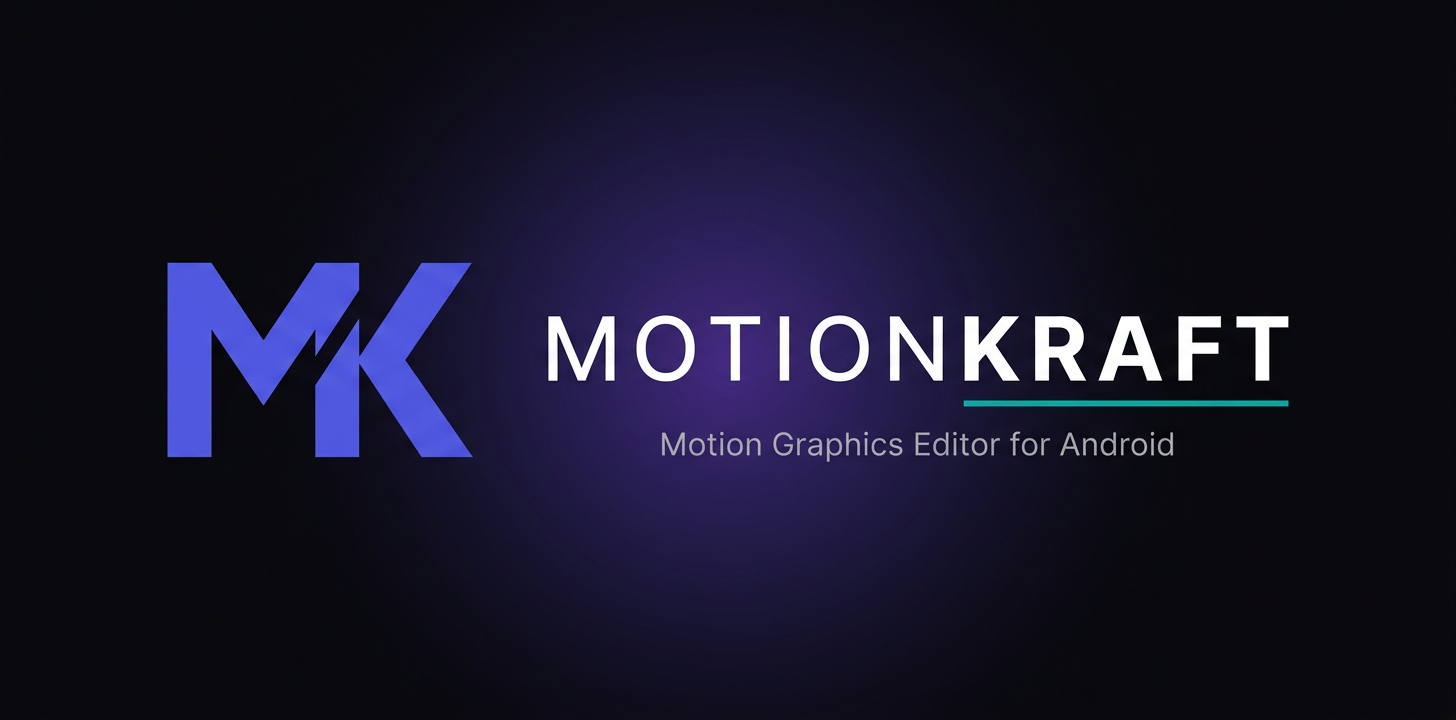
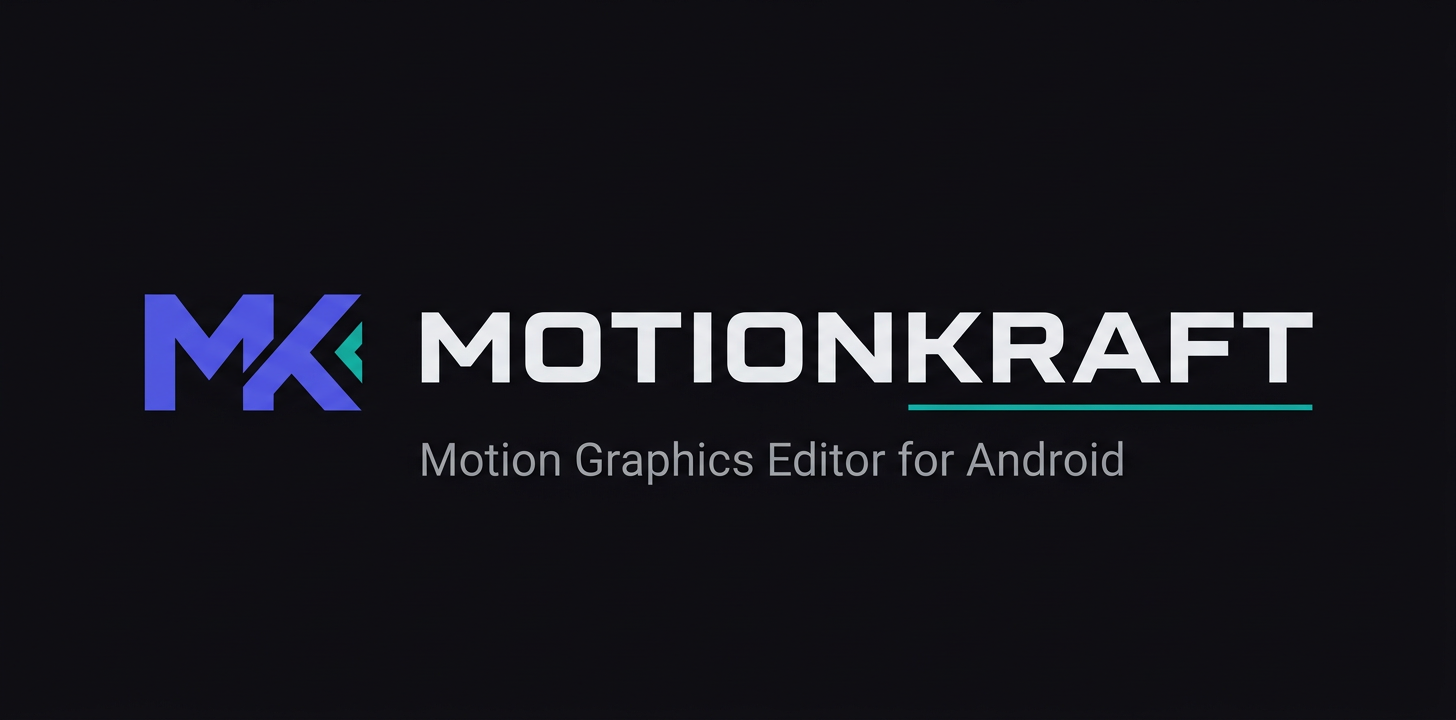
Polish README, clean branding

Changed region(s): [[0.0927, 0.0917, 0.9272, 0.9167]]

diff --git a/README.md b/README.md
@@ -1,69 +1,67 @@
-![MotionKraft](branding/banner.png)
+<img src="branding/banner.png" width="100%" alt="MotionKraft">
 
 # MotionKraft
 
-Motion graphics and video editor for Android. Built for short-form creators who need keyframe-based editing, beat-synced effects, and compositing control beyond what most mobile editors expose.
+Motion graphics and video editor for Android. Targets short-form creators who need keyframe-based compositing, beat-synced effects, and export control that goes beyond the standard one-tap editors.
 
-This repository contains the Android application source, signing configuration (keystore is never committed), and the release pipeline that produces signed APK and AAB artifacts via GitHub Actions.
+This repository contains the application source, signing configuration (keystore held in GitHub Secrets, never committed), and the release pipeline that produces signed APK and AAB artifacts via GitHub Actions.
+
+Repository: [https://github.com/xykal/MotionKraft](https://github.com/xykal/MotionKraft)
 
 ---
 
 ## Status
 
-This project is in active development. The current build ships a working foundation: multi-track timeline, keyframe animation across six transform channels, beat-aware jedag-jedug presets, color grading, text layers, speed ramps, and export via FFmpeg to H.264/AAC at resolutions up to 4K.
+Active development. Current build provides a working foundation: multi-track timeline, six-channel keyframe animation, beat-aware jedag-jedug presets, color grading, text layers, speed ramps, and FFmpeg export up to 4K H.264/AAC.
 
-Minimum Android version: 7.0 (API 24)
+Minimum Android: 7.0 (API 24)
 Target SDK: 34
 Architectures: arm64-v8a, armeabi-v7a
 
 ---
 
-## Feature Set
+## Features
 
-### Timeline and Compositing
-- Multi-track timeline with video, image, and text clips
-- Pinch-zoom timeline ruler
-- Playhead scrubbing and playback
-- Per-clip trim, split, and speed control (0.1x to 4x)
+### Timeline
+- Multi-track tracks for video, image, and text clips
+- Pinch-zoomable timeline ruler
+- Per-clip trim and speed (0.1x to 4x)
 - Layer ordering by track index
-- Export frame accuracy via FFmpeg filter graph
+- FFmpeg filter graph for frame-accurate export
 
 ### Animation
 - Keyframe channels: position X/Y, scale X/Y, rotation, opacity
 - Interpolation modes: linear, ease-in, ease-out, ease-in-out, hold, bounce, elastic
-- Keyframe values evaluated at render time; presets always produce editable keyframes rather than burnt-in pixels
+- All beat presets produce editable keyframes rather than burnt-in pixels
 
-### Beat Effects (one-tap presets)
-The presets write keyframes and filter instances so you can retime or fine-tune them after applying.
-
+### Beat-Synced Effects (one tap)
 - Zoom Punch
 - Heavy Shake
 - Strobe Flash
 - RGB Glitch
 - Whip Pan transition
 - Spin 360
-- Pulse (BPM-synced scale)
-- Earthquake (shake + punch composite)
+- Pulse (BPM-locked scale)
+- Earthquake (shake plus punch composite)
 - Zoom Blur
 
 ### Color and Visual Adjustment
 - Brightness, contrast, saturation sliders
-- Vintage, black-and-white, and teal-orange cinematic LUT filters
+- Vintage, black-and-white, teal-orange cinematic filters
 - Gaussian blur and outer glow
-- Hue rotation (in development)
 
 ### Text
 - Solid-fill text layers with outline stroke
 - Adjustable size and color
-- Font loading and per-text animation are scheduled for the next milestone
+- Custom font loading scheduled for next milestone
 
 ### Export
-- Resolution: 720p / 1080p / 1440p / 2160p
-- Frame rate: 24 / 30 / 60 fps
-- Bitrate range: 4 to 50 Mbps
+- Resolutions: 720p, 1080p, 1440p, 2160p
+- Frame rates: 24 / 30 / 60 fps
+- Bitrate: 4 to 50 Mbps
 - Codec: H.264 video, AAC audio
-- Output written to the device Movies directory and registered with MediaStore
-- Foreground service with progress notification
+- Output written to the device `Movies/MotionKraft` directory and registered with MediaStore
+- Foreground export service with progress notification
 
 ---
 
@@ -71,20 +69,19 @@ The presets write keyframes and filter instances so you can retime or fine-tune 
 
 ```
 app/
-├── src/main/
-│   ├── java/xyz/xyverse/motionkraft/
-│   │   ├── data/model/         # Timeline, Clip, Keyframe, Effect, Transform
-│   │   ├── editor/             # FFmpeg command builder, export service
-│   │   ├── effects/            # Jedag-jedug preset keyframe generators
-│   │   ├── presentation/       # ViewModel and Jetpack Compose UI
-│   │   └── ui/theme/           # Material 3 dark theme
-│   └── res/                    # Drawables, values, manifest, adaptive icon
-├── build.gradle.kts
-└── proguard-rules.pro
+  src/main/
+    java/xyz/xyverse/motionkraft/
+      data/model/         Timeline, Clip, Keyframe, Effect, Transform
+      editor/             FFmpeg command builder, export service
+      effects/            Jedag-jedug preset keyframe generators
+      presentation/       ViewModel and Jetpack Compose UI
+      ui/theme/           Material 3 dark theme
+    res/                  Drawables, values, manifest, adaptive icon
+  build.gradle.kts
+  proguard-rules.pro
 
-.github/workflows/              # CI/CD build pipeline
-branding/                       # Icon source and README banner
-keystore/                       # GITIGNORED — release keystore lives in GitHub Secrets
+.github/workflows/        CI/CD build pipeline
+branding/                 Icon source and README banner
 ```
 
 ---
@@ -94,7 +91,7 @@ keystore/                       # GITIGNORED — release keystore lives in GitHu
 ### Prerequisites
 - Android Studio Hedgehog or newer
 - JDK 17
-- Android SDK with platform 34 and NDK (for ffmpeg-kit native libs)
+- Android SDK with platform 34 and NDK (for ffmpeg-kit native libraries)
 
 ### Debug Build
 ```
@@ -103,7 +100,7 @@ keystore/                       # GITIGNORED — release keystore lives in GitHu
 Output: `app/build/outputs/apk/debug/app-debug.apk`
 
 ### Release Build (Local)
-1. Place the release keystore at `keystore/motionkraft-release.jks`
+1. Place the release keystore at `keystore/motionkraft-release.jks` (this path is gitignored).
 2. Provide signing credentials via environment variables or `~/.gradle/gradle.properties`:
    ```
    SIGNING_STORE_PASSWORD=...
@@ -114,83 +111,88 @@ Output: `app/build/outputs/apk/debug/app-debug.apk`
    ```
    ./gradlew assembleRelease bundleRelease
    ```
-
-App bundles are generated at `app/build/outputs/bundle/release/`.
+   App bundles are produced in `app/build/outputs/bundle/release/`.
 
 ---
 
 ## Continuous Integration and Release Pipeline
 
-The GitHub Actions workflow at `.github/workflows/android-build.yml` runs on push, tag, pull request, and manual dispatch.
+GitHub Actions workflow at `.github/workflows/android-build.yml` runs on push, tag, pull request, and manual dispatch.
 
-Two jobs exist:
+Two jobs:
 
-1. **build-debug** — always runs, has no access to secrets, produces an unsigned debug APK. This is the job that runs on pull requests from forks.
-2. **build-release** — requires the `production` GitHub Environment. The environment is configured with:
-   - Required reviewer: only the repository owner (`xykal`)
-   - Deployment branch restriction: `main` and tags matching `v*`
-   - Secrets scoped exclusively to this environment
+1. **build-debug** runs on every push and pull request. It has no access to signing material and produces an unsigned debug APK.
+2. **build-release** runs only on version tags (`v*`) or when manually dispatched with `buildType=release`. It requires the `production` GitHub Environment, which is configured with:
+   - Required reviewer: `xykal` only
+   - Deployment restricted to `main` and tags `v*`
+   - All signing material held exclusively as environment secrets
 
-Release secrets configured in the `production` environment:
+Release secrets scoped to the `production` environment:
 
 | Secret | Purpose |
 |---|---|
 | `SIGNING_KEYSTORE_BASE64` | Base64-encoded PKCS12 release keystore |
 | `SIGNING_STORE_PASSWORD` | Keystore password |
-| `SIGNING_KEY_PASSWORD` | Key password (identical to store password for PKCS12) |
-| `SIGNING_KEY_ALIAS` | Key alias, fixed as `motionkraft` |
+| `SIGNING_KEY_PASSWORD` | Key password |
+| `SIGNING_KEY_ALIAS` | Key alias (`motionkraft`) |
 
-The workflow decodes the keystore at job start, verifies it with `keytool`, builds the signed APK and AAB with R8 and resource shrinking enabled, computes SHA256 checksums, and uploads artifacts. When the build is triggered by a tag matching `v*`, it additionally creates a draft GitHub Release with signed artifacts attached.
+The workflow decodes the keystore at job start, verifies it with `keytool`, runs R8 and resource shrinking, builds signed APK and AAB, computes SHA-256 checksums, and uploads artifacts. Tag builds additionally create a draft GitHub Release.
 
-Pull requests from forks never receive release secrets. Dependabot is enabled for weekly dependency updates. TruffleHog scans each push for accidentally committed credentials.
+Pull requests from forks never receive release secrets. Dependabot is enabled for weekly dependency updates. TruffleHog runs on every push to detect leaked credentials.
 
 ---
 
 ## Security Model
 
-- The release keystore is never committed to source control. Only the base64-encoded keystore is stored as a GitHub environment secret.
-- Release builds require manual approval from the owner before any job that touches signing material runs.
-- Fork PRs run in a stripped-down job that cannot read repository secrets and cannot produce signed artifacts.
-- `permissions:` block at the workflow level caps GITHUB_TOKEN access.
-- `persist-credentials: false` on the release checkout to prevent token leaking to third-party steps.
-- R8 obfuscation and repackaging are enabled for release builds. All verbose logging (`Log.v/d/i`) is stripped by ProGuard.
+- The release keystore is never committed. It exists only as a base64-encoded GitHub environment secret.
+- Release builds require manual reviewer approval before any job with access to signing material is allowed to run.
+- Fork PRs run in a stripped-down job with no access to repository secrets.
+- The workflow `permissions:` block restricts the default `GITHUB_TOKEN` scope.
+- Release checkouts use `persist-credentials: false` to prevent third-party steps from inheriting the token.
+- R8 obfuscation and class repackaging are enabled for release builds. All `Log.v`/`Log.d`/`Log.i` calls are stripped by ProGuard.
 - Cleartext traffic is blocked via network security config.
-- Code owners file enforces owner review on changes to workflow, build, and proguard files.
+- The `CODEOWNERS` file enforces owner review on changes to workflows, build scripts, and ProGuard rules.
+- Actions allowlist is restricted to the specific versions used in the workflow.
+- Branch protection on `main` requires one approving review, passing CI, linear history, and blocks force pushes and deletions.
 
 ---
 
 ## APK Integrity
 
-Release builds are signed with a 4096-bit RSA key valid for 27 years. The signing certificate SHA-256 fingerprint will be published alongside the first public release so that end users can verify APK provenance independently of the app store.
+Release builds are signed with a 4096-bit RSA key valid for 27 years. The signing certificate SHA-256 fingerprint will be published alongside the first public release so end users can independently verify APK provenance.
 
-Each release job publishes a `sha256sums.txt` file next to the APK and AAB.
+Each release job publishes a `sha256sums.txt` next to the APK and AAB.
 
 ---
 
 ## Roadmap
 
-Ordered roughly by priority:
+Priority order:
 
-1. Real-time OpenGL preview pipeline so effects and transforms render while scrubbing, not only at export
+1. Real-time OpenGL preview pipeline so effects and transforms render live while scrubbing
 2. Bezier curve editor for keyframe interpolation
 3. Masking and track matte layers
 4. Chroma key
-5. Beat detection from audio (automated BPM sync for jedag-jedug presets)
-6. Motion blur and directional blur per transform
-7. Audio waveform on timeline with ducking and voice-over
+5. Beat detection from audio for automatic BPM-locked jedag-jedug
+6. Per-transform motion blur
+7. Audio waveform, ducking, voice-over
 8. Custom font loading and per-text animation presets
-9. Transition library between clips (slide, zoom, morph, glitch)
+9. Clip-to-clip transition library (slide, zoom, morph, glitch)
 10. AI-assisted captions and shot detection
-11. Project save/load as versioned JSON
+11. Versioned project save/load
 
 ---
 
 ## License
 
-All rights reserved by XyVerse. No license is granted to the code in this repository at this time; it is published publicly for visibility and distribution only. A permissive or open-source license may be applied in a future release.
+Copyright (c) 2026 XyVerse. All rights reserved.
+
+This source is published publicly for visibility and distribution. No permission is granted to reproduce, modify, distribute, sublicense, or sell any part of this software without explicit written permission from the copyright holder.
+
+THE SOFTWARE IS PROVIDED "AS IS", WITHOUT WARRANTY OF ANY KIND.
 
 ---
 
-## Contact
+## Repository Owner
 
-Repository owner: xykal
+xykal
